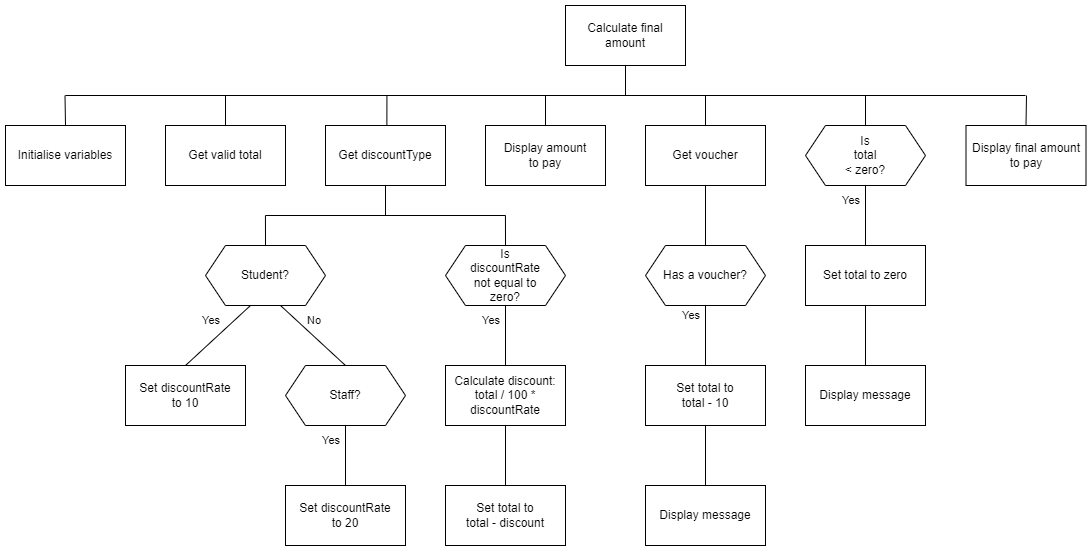
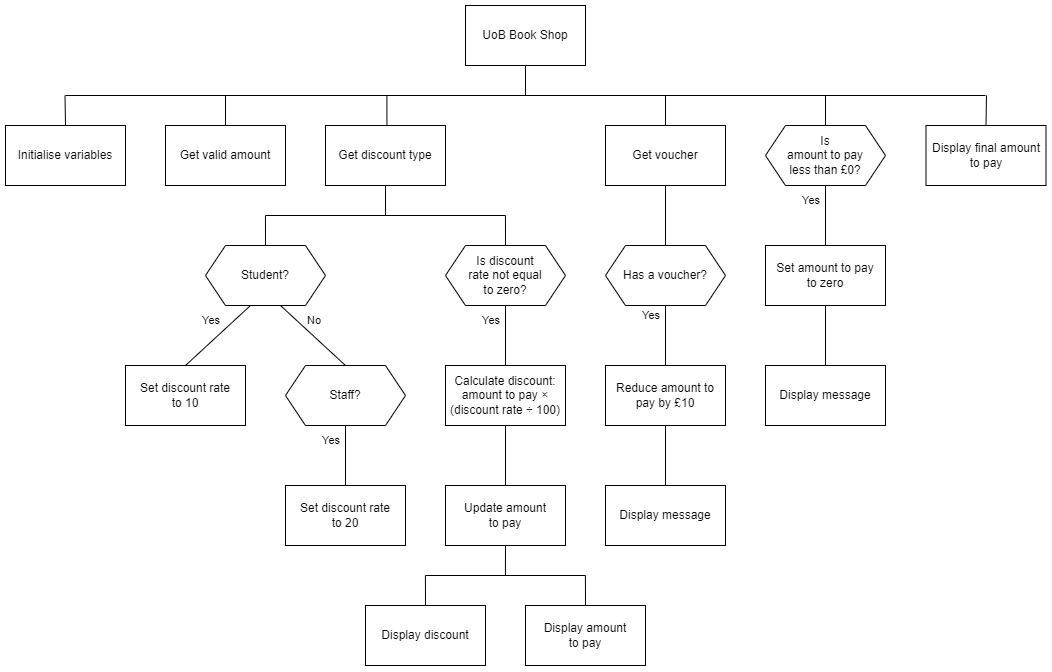
Task updated

diff --git a/n5/N5-SDD-Book-Shop/instructions2.md b/n5/N5-SDD-Book-Shop/instructions2.md
@@ -1,20 +1,20 @@
-# N5 SDD - Decisions Decisions
+# N5 SDD - Book Shoop - Part 2
+
 
 ## Introduction
 
-The University of Barra (UoB) bookshop wants to update how it calculates the discount that students and staff get when they buy something.  A gift voucher can be used to pay for all or some of the purchase.  Only one £10 gift voucher can be used per purchase.  When using a voucher, no change is given if the amount to pay is less than £10.
+The University of Barra (UoB) bookshop is upgrading its software.  There is a wide selection of items for sale in the shop, ranging from a minimum of £5 up to a maximum of £100.  To help staff and students with the cost they get a discount.  The book shop will accept a gift voucher to pay for all or some of the purchase.  Only one £10 gift voucher can be used per purchase.  When using a voucher, no change is given if the amount to pay is less than £10.
 
-Currently, the total is rung up using an old till with any discount or vouchers being calculated by hand.  There have been some embarrassing mistakes!  Hence the need to modernise.
 
 ## Task
 
 Use the structure diagram to implement a program that will accept a non-discounted amount, calculate the discounted price if appropriate, and then take into account using a voucher to pay for some, or all, of the amount.
 
-A structure diagram of the design is provided below.
 
-## Top level design (Structure Diagram)
+## Top level design (Structure diagram)
 
 ![Structure diagram](assets/sd2.png "Structure diagram")
+
 
 ## Assumptions
 
@@ -25,29 +25,42 @@ A structure diagram of the design is provided below.
 
 2. Any text entered is lower or upper case, i.e. yes, YES, staff, STAFF, ...
 
-3. Any rounding of the final amount will be done by the UoB bookshop staff.
+3. Any rounding will be done by the UoB bookshop staff.
+
 
 ## Examples
 
 Examples of the expected user interface are shown below with some possible input and output values.
 
-### User Interface - Example 1
+
+### User Interface
+
+#### Example 1
+
 ```
+UoB Book Shop
+-------------
+
 Total amount: £10
 
 Discount? STUDENT
 
-Amount to pay: £9
+Discount: £1.0
+Amount to pay: £9.0
 
 Voucher? yes
 £10 voucher applied
 No change given when using a voucher
 
-Final amount to pay: £0
+Final amount to pay: £0.0
+====================
 ```
 
-### User Interface - Example 2
+#### Example 2
+
 ```
+UoB Book Shop
+-------------
 Total amount: £7.25
 
 Discount? no
@@ -57,18 +70,24 @@ Amount to pay: £7.25
 Voucher? NO
 
 Final amount to pay: £7.25
+====================
 ```
 
-### User Interface - Example 3
+#### Example 3
+
 ```
+UoB Book Shop
+-------------
 Total amount: £25.50
 
 Discount: staff
 
-Amount to pay: £20.40
+Discount: £5.1
+Amount to pay: £20.4
 
 Voucher? YES
 £10 voucher applied
 
-Final amount to pay: £10.40
+Final amount to pay: £10.4
+====================
 ```
